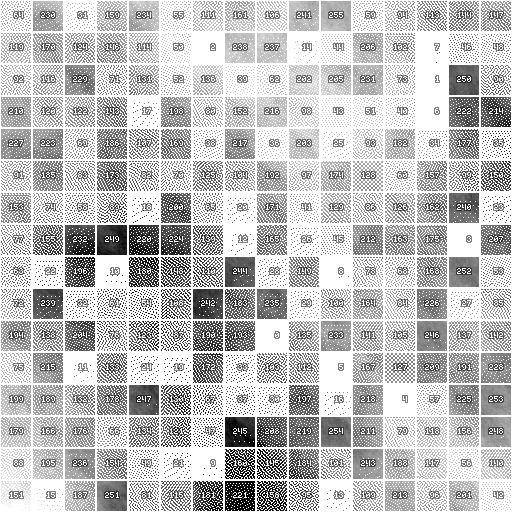
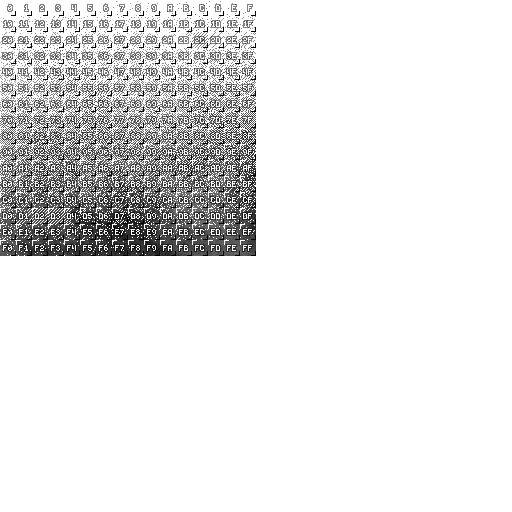
sync

diff --git a/patterns.c b/patterns.c
@@ -121,13 +121,20 @@ fwrite(pixels,1,size*size,stdout);
 free(pixels);
 }
 
+void drawFlatFiller(uint32_t *pixels, int width, int height, int x, int y, int fwidth, int fheight, int alpha){
+int q,w,p;
+for(w=0;w<fheight;w++){
+for(q=0;q<fwidth;q++){
+p=x+q+(y+w)*width;
+pixels[p]=alpha<<24;
+}
+}
 
-void createAlphatest(int width, int height, int count, int is_dither){
-srand(time(0));
-uint32_t *pixels=malloc(width*height*4);
-int32_t *errors=malloc(width*height*4);
-uint8_t alpha_vals[256];
-struct{int x,y;} atkinson[]={
+}
+
+
+void drawDitheredFiller(uint32_t *pixels, int width, int height, int x, int y, int fwidth, int fheight, int alpha){
+static struct{int x,y;} atkinson[]={
 {1,0},
 {2,0},
 {-1,1},
@@ -135,7 +142,48 @@ struct{int x,y;} atkinson[]={
 {1,1},
 {0,2}
 };
+int pre_width=fwidth*2+50;
+int pre_height=fheight*2+50;
+int32_t *errors=malloc(pre_width*pre_height*4);
+uint32_t *prepix=malloc(pre_width*pre_height*4);
 
+int q,w,e,p,cur,err,ox,oy;
+int tx=30+rand()%20;
+int ty=30+rand()%20;
+
+memset(errors,0,pre_width*pre_height*4);
+for(w=0;w<pre_height;w++){
+for(q=0;q<pre_width;q++){
+p=q+w*pre_width;
+cur=(alpha+errors[p]>127?255:0);
+err=(alpha+errors[p]-cur)/6;
+for(e=0;e<6;e++){
+ox=q+atkinson[e].x;
+oy=w+atkinson[e].y;
+if(ox<0 || oy<0 || ox>=pre_width || oy>=pre_height){continue;}
+errors[ox+oy*pre_width]+=err;
+}
+p=q+w*pre_width;
+prepix[p]=cur<<24;
+}
+}
+
+for(w=0;w<fheight;w++){
+for(q=0;q<fwidth;q++){
+pixels[x+q+(y+w)*width]=prepix[q*2+tx+(w*2+ty)*pre_width];
+}
+}
+
+free(prepix);
+free(errors);
+}
+
+
+
+void createAlphatest(int width, int height, int count, int is_dither){
+srand(time(0));
+uint32_t *pixels=malloc(width*height*4);
+uint8_t alpha_vals[256];
 char text[8];
 
 int q,w,e,p;
@@ -146,11 +194,12 @@ int cell_h=width/count;
 
 // init alpha_vals
 for(q=0;q<256;q++){
+alpha_vals[q]=100+(q*100000/255*155/100000);
 alpha_vals[q]=q;
 }
 // shuffle
 int t,n;
-for(q=0;q<256;q++){
+for(q=1110;q<256;q++){
 n=rand()%0xFF;
 t=alpha_vals[n];
 alpha_vals[n]=alpha_vals[q];
@@ -158,6 +207,7 @@ alpha_vals[q]=t;
 }
 
 // draw grid and numbers
+int prev_num=-1;
 for(w=0;w<count;w++){
 for(q=0;q<count;q++){
 
@@ -165,60 +215,39 @@ for(s=0;s<cell_h;s++){
 for(a=0;a<cell_w;a++){
 p=q*cell_w+a+(w*cell_h+s)*width;
 l=0;
-if(a==0 || s==0 || a==(cell_w-1) || s==(cell_h-1)){
-l=255;
+if((a+s)<=cell_h>>2 && (a==0 || s==0)){
+l=0xFFFFFFFF;
 }
-pixels[p]=(l<<24)|(0xFFFFFF);
+if((cell_w-1-a)<=cell_h>>2 && (cell_w-1-s)<=cell_h>>2 && (a==(cell_w-1) || s==(cell_h-1))){
+l=0xFF000000;
+}
+pixels[p]=l;
 }
 }
-sprintf(text,"%3d",alpha_vals[q+w*count]);
-draw_string_glow_rgba(pixels,width,height,text,q*cell_w+cell_w/2-7,w*cell_h+cell_h/2-5);
+if(prev_num!=alpha_vals[q+w*count]){
+sprintf(text,"%2X",alpha_vals[q+w*count]);
+draw_string_glow_rgba(pixels,width,height,text,q*cell_w+cell_w/2-5,w*cell_h+cell_h/2-4);
+prev_num=alpha_vals[q+w*count];
+}
 }
 }
 fwrite(pixels,4,width*height,stdout);
 
 
 // draw filler
-int cur,err;
-memset(errors,0,width*height*4);
-int csx,csy;
-int cex,cey;
 
 for(w=0;w<count;w++){
 for(q=0;q<count;q++){
-l=alpha_vals[q+w*count];
-csx=q*cell_w;
-csy=w*cell_h;
-cex=q*cell_w+cell_w;
-cey=w*cell_h+cell_h;
-
-for(s=0;s<cell_h;s++){
-for(a=0;a<cell_w;a++){
-p=q*cell_w+a+(w*cell_h+s)*width;
-cur=(l+errors[p]>127?255:0);
-err=(l+errors[p]-cur)/6;
-for(e=0;e<6;e++){
-ox=q*cell_w+a+atkinson[e].x;
-oy=w*cell_h+s+atkinson[e].y;
-if(//ox<0 || oy<0 || ox>=width || oy>=height || 
-ox>=cex || oy>=cey || ox<csx || oy<csy){continue;}
-errors[ox+oy*width]+=err;
-}
 if(is_dither){
-pixels[p]=cur|(cur<<8)|(cur<<16)|0xFF000000;
-pixels[p]=cur<<24;
+drawDitheredFiller(pixels,width,height,q*cell_w,w*cell_h,cell_w,cell_h,alpha_vals[q+w*count]);
 } else {
-pixels[p]=l<<24;
+drawFlatFiller(pixels,width,height,q*cell_w,w*cell_h,cell_w,cell_h,alpha_vals[q+w*count]);
 }
 }
 }
-}
-}
-
 
 fwrite(pixels,4,width*height,stdout);
 free(pixels);
-free(errors);
 }
 
 

diff --git a/Readme.MD b/Readme.MD
@@ -89,5 +89,9 @@ You can test software for stitching panoramas.
 ![numbers.png](./numbers.png)
 ![xor-numbered.png](./xor-numbered.png)
 ![xor.png](./xor.png)
+![alphatest-nodither-plasma-256.png](./alphatest-nodither-plasma-256.png)
+![alphatest-dither-plasma-256.png](./alphatest-dither-plasma-256.png)
+![alphatest-nodither-dirt-256.png](./alphatest-nodither-dirt-256.png)
+![alphatest-dither-dirt-256.png](./alphatest-dither-dirt-256.png)
 ![alphatest-nodither-plasma.png](./alphatest-nodither-plasma.png)
 ![alphatest-dither-dirt.png](./alphatest-dither-dirt.png)
